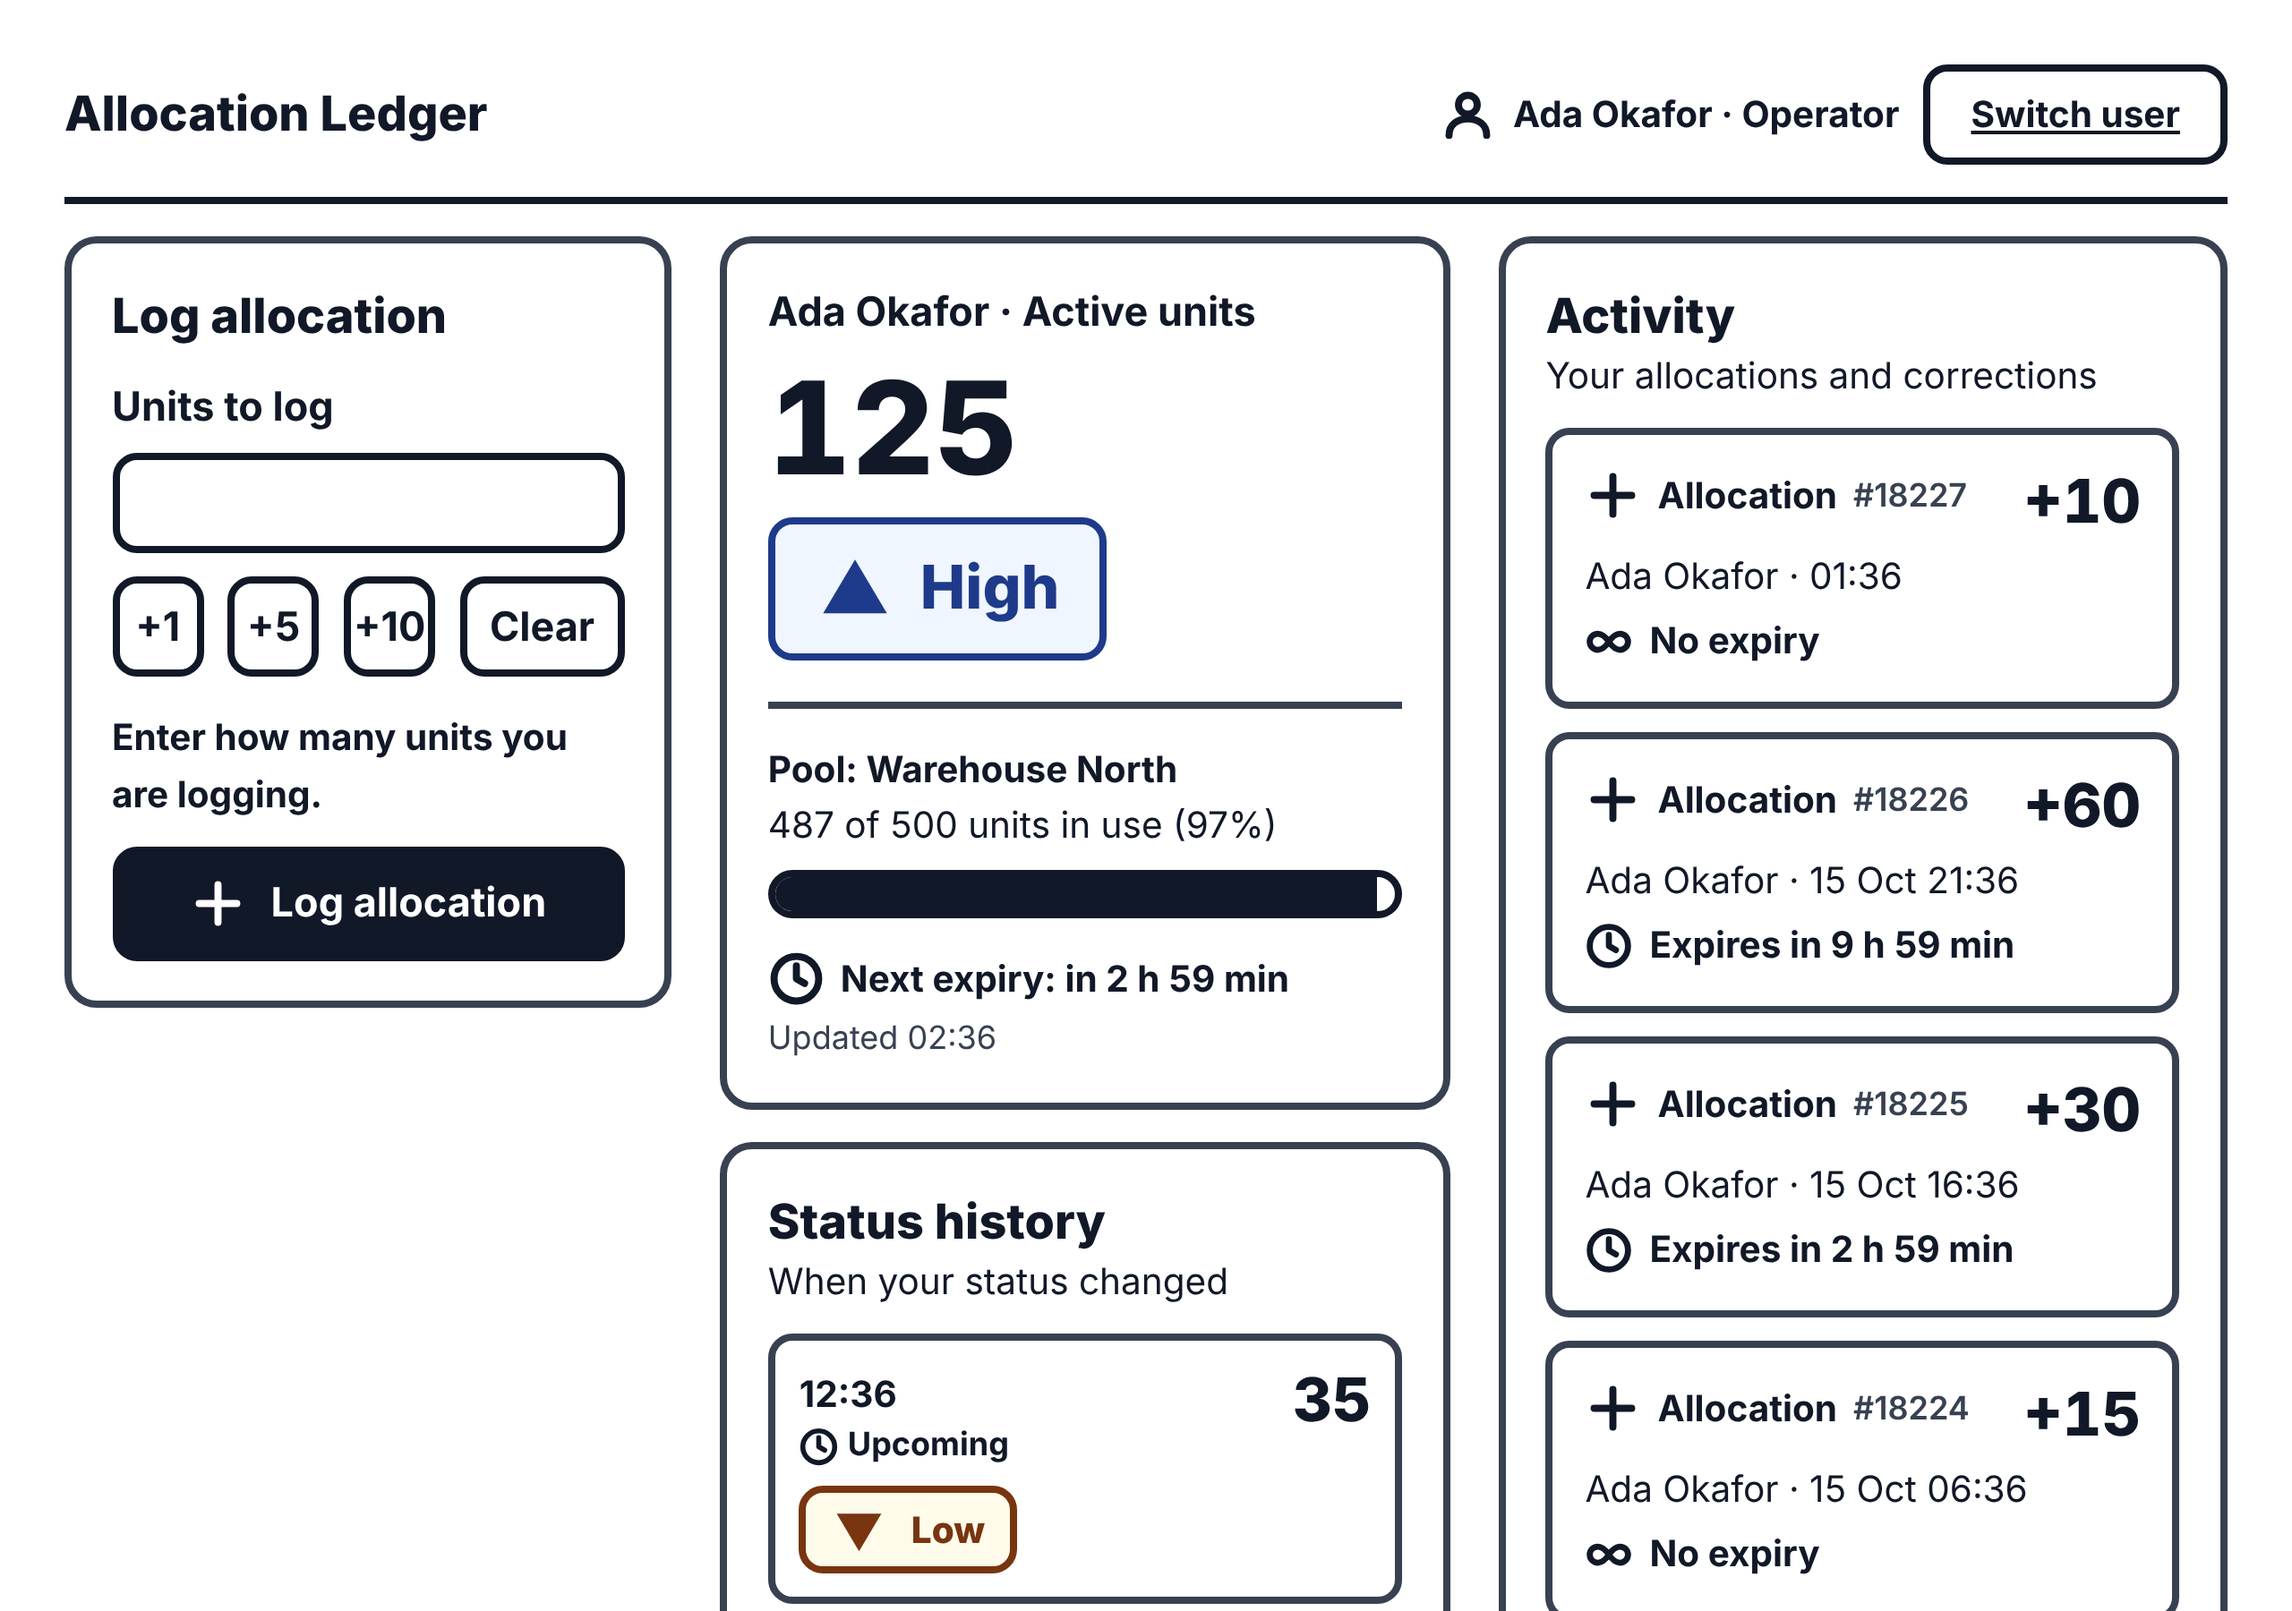
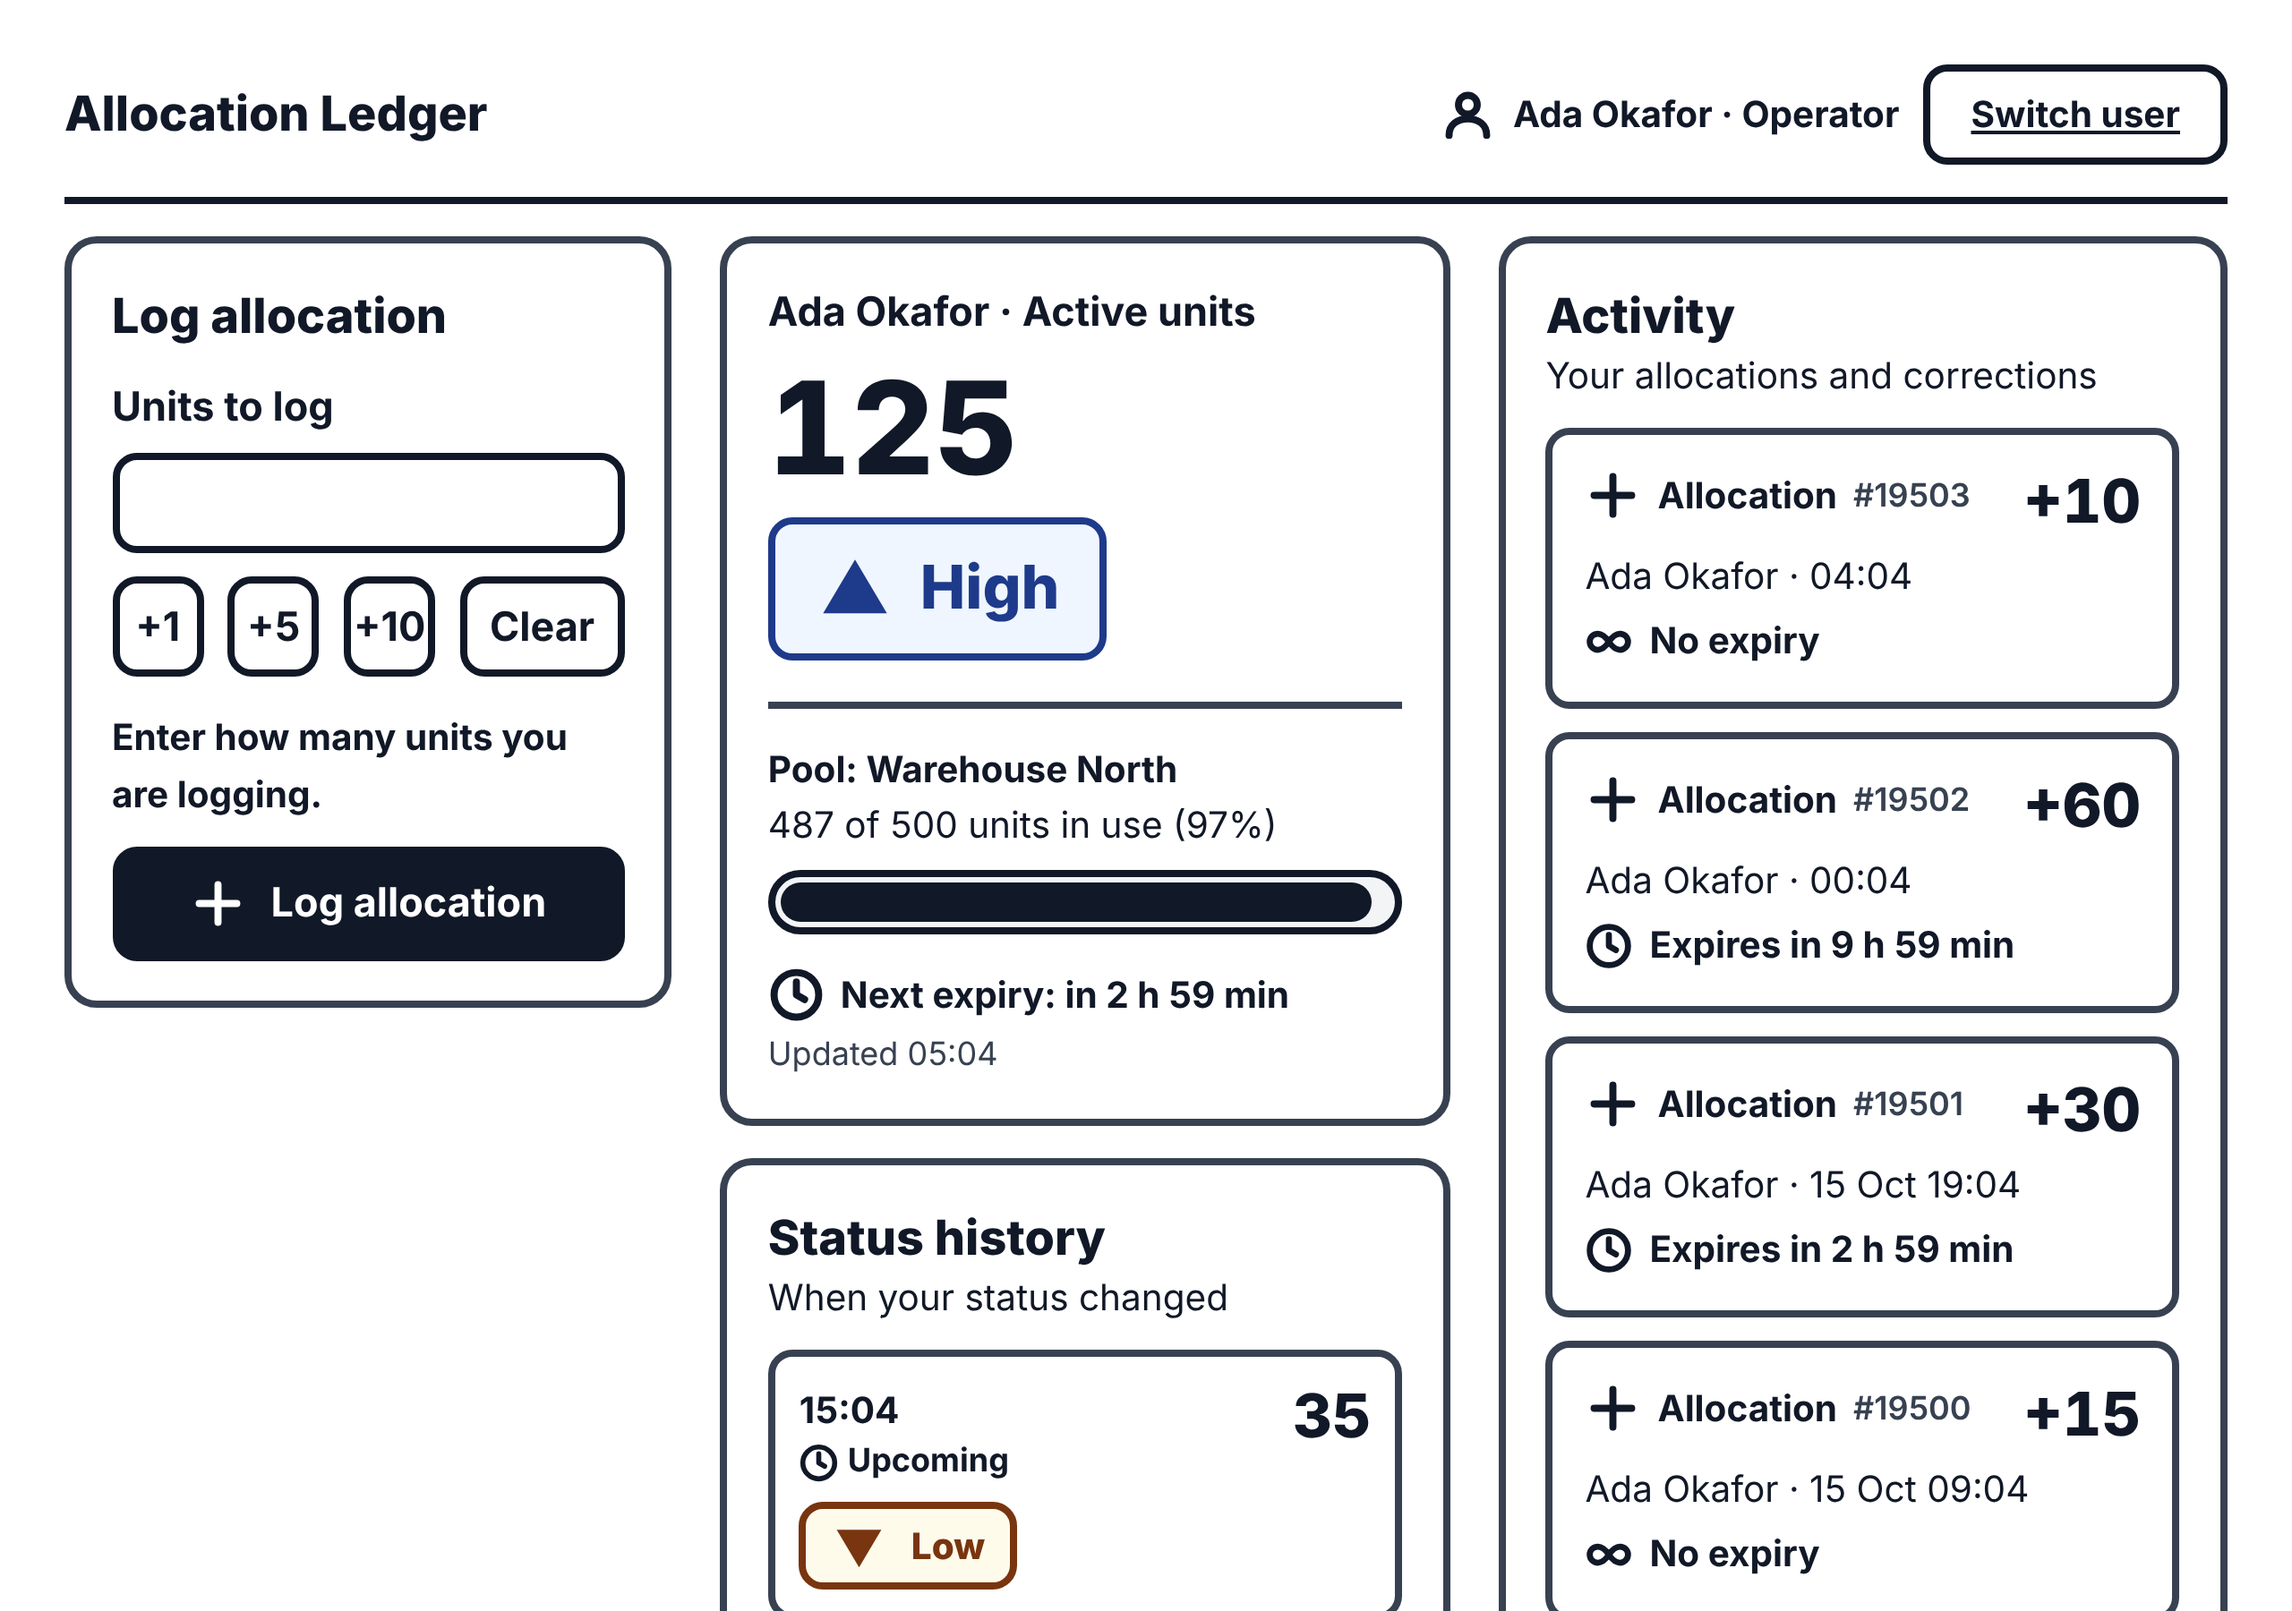
Tidy: one-line log filter label, readable pool usage bar; new screenshots
- The log filter's first button now reads the operator's first name
  ("Ada") instead of "This operator", so it stays on one line in a
  half-width button at 360px; the full name is in its aria-label and
  long names truncate. firstName() in src/ui/format.ts, with tests.
- The pool usage bar is a light track with a dark fill and a visible
  gap, so a nearly full pool (95-99%) no longer reads as a solid black
  bar.
- docs/screenshots regenerated; test-counts.json updated (+2 unit).

Claude-Session: https://claude.ai/code/session_01Lmn33zmkBXbDsA7BTeGEMG

diff --git a/src/app/_components/log-scope-toggle.tsx b/src/app/_components/log-scope-toggle.tsx
@@ -3,9 +3,10 @@
 import { useRouter } from "next/navigation";
 import { useTransition } from "react";
 import { dashboardHref } from "@/ui/entries-scope";
+import { firstName } from "@/ui/format";
 
 /** Supervisors: the log shows the selected operator by default; "Everyone" widens it to the pool. Reloads from the server, so no empty state. */
-export function LogScopeToggle({ operatorId, logAll }: { operatorId: string; logAll: boolean }) {
+export function LogScopeToggle({ operatorId, operatorName, logAll }: { operatorId: string; operatorName: string; logAll: boolean }) {
   const router = useRouter();
   const [pending, startTransition] = useTransition();
   const choose = (all: boolean) => {
@@ -13,18 +14,19 @@ export function LogScopeToggle({ operatorId, logAll }: { operatorId: string; log
     startTransition(() => router.replace(dashboardHref({ operatorId, logAll: all })));
   };
   const base =
-    "min-h-[56px] min-w-0 flex-1 rounded-xl border-4 border-ink px-3 text-xl font-bold";
+    "min-h-[56px] min-w-0 flex-1 truncate rounded-xl border-4 border-ink px-3 text-xl font-bold";
   return (
     <div role="group" aria-label="Which entries to show" aria-busy={pending} data-testid="log-scope" className="mb-3 flex gap-3">
       <button
         type="button"
         data-testid="log-scope-operator"
+        aria-label={`${operatorName}'s entries`}
         aria-pressed={!logAll}
         onClick={() => choose(false)}
         className={`${base} ${logAll ? "bg-page text-ink" : "bg-action text-action-text"}`}
       >
         {!logAll && "✓ "}
-        This operator
+        {firstName(operatorName)}
       </button>
       <button
         type="button"

diff --git a/src/ui/format.test.ts b/src/ui/format.test.ts
@@ -1,5 +1,5 @@
 import { describe, expect, it } from "vitest";
-import { describeExpiry, formatSigned, metricFontPx } from "./format";
+import { describeExpiry, firstName, formatSigned, metricFontPx } from "./format";
 
 const now = new Date("2026-03-01T12:00:00.000Z");
 const inMs = (ms: number) => new Date(now.getTime() + ms).toISOString();
@@ -58,5 +58,19 @@ describe("metricFontPx: the big number is 72px unless its digits would not fit a
       expect(metricFontPx(n)).toBeLessThanOrEqual(last);
       last = metricFontPx(n);
     }
+  });
+});
+
+describe("firstName: a label short enough for a half-width button on a 360px phone", () => {
+  it("is the first word of the name", () => {
+    expect(firstName("Ada Okafor")).toBe("Ada");
+    expect(firstName("Bartholomew Featherstonehaugh-Montgomery")).toBe("Bartholomew");
+  });
+
+  it("keeps a one-word name, ignores extra spaces, and never returns an empty label", () => {
+    expect(firstName("Madonna")).toBe("Madonna");
+    expect(firstName("  Ben   Lindqvist ")).toBe("Ben");
+    expect(firstName("")).toBe("This operator");
+    expect(firstName("   ")).toBe("This operator");
   });
 });

diff --git a/src/app/_components/metric-card.tsx b/src/app/_components/metric-card.tsx
@@ -69,9 +69,9 @@ export function MetricCard({
               aria-valuemin={0}
               aria-valuemax={pool.capacity}
               aria-valuenow={pool.activeUnits}
-              className="mt-2 h-6 w-full overflow-hidden rounded-full border-4 border-ink"
+              className="mt-2 h-8 w-full overflow-hidden rounded-full border-4 border-ink bg-pending-bg p-[3px]"
             >
-              <div className="h-full bg-ink" style={{ width: `${percent}%` }} />
+              <div className="h-full rounded-full bg-ink" style={{ width: `${percent}%` }} />
             </div>
           </>
         )}

diff --git a/src/app/_components/dashboard.tsx b/src/app/_components/dashboard.tsx
@@ -292,7 +292,7 @@ function Screen({ data, config }: { data: DashboardData; config: UiConfig }) {
                 ? `Everyone in ${metric.pool.name}`
                 : `${subject.name}'s allocations and corrections`
           }
-          scopeToggle={isSupervisor ? <LogScopeToggle operatorId={subject.id} logAll={logAll} /> : undefined}
+          scopeToggle={isSupervisor ? <LogScopeToggle operatorId={subject.id} operatorName={subject.name} logAll={logAll} /> : undefined}
         />
       </div>
 

diff --git a/src/ui/format.ts b/src/ui/format.ts
@@ -44,3 +44,8 @@ export function metricFontPx(units: number): number {
   if (digits === 7) return 52;
   return 48;
 }
+
+/** The first word of a name, for narrow labels (the full name stays in the aria-label). */
+export function firstName(name: string): string {
+  return name.trim().split(/\s+/)[0] || "This operator";
+}
